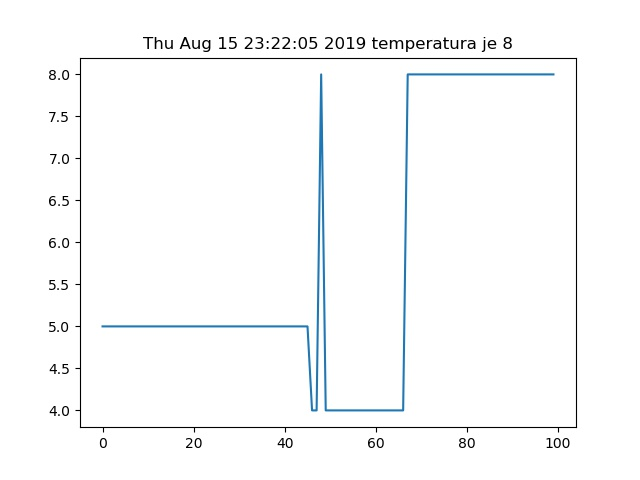
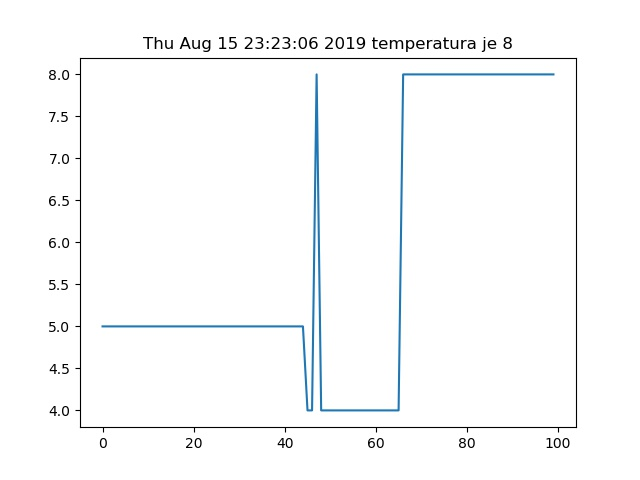
'auto'

Changed region(s): [[0.4688, 0.1562, 0.5312, 0.875], [0.5938, 0.1562, 0.6562, 0.8438], [0.4688, 0.0625, 0.5, 0.0938]]

diff --git a/README.md b/README.md
@@ -1,5 +1,5 @@
 Frizider live: 8
-21248.508333333335 
+21111.433333333338 
 0
 Temperatura:
 
